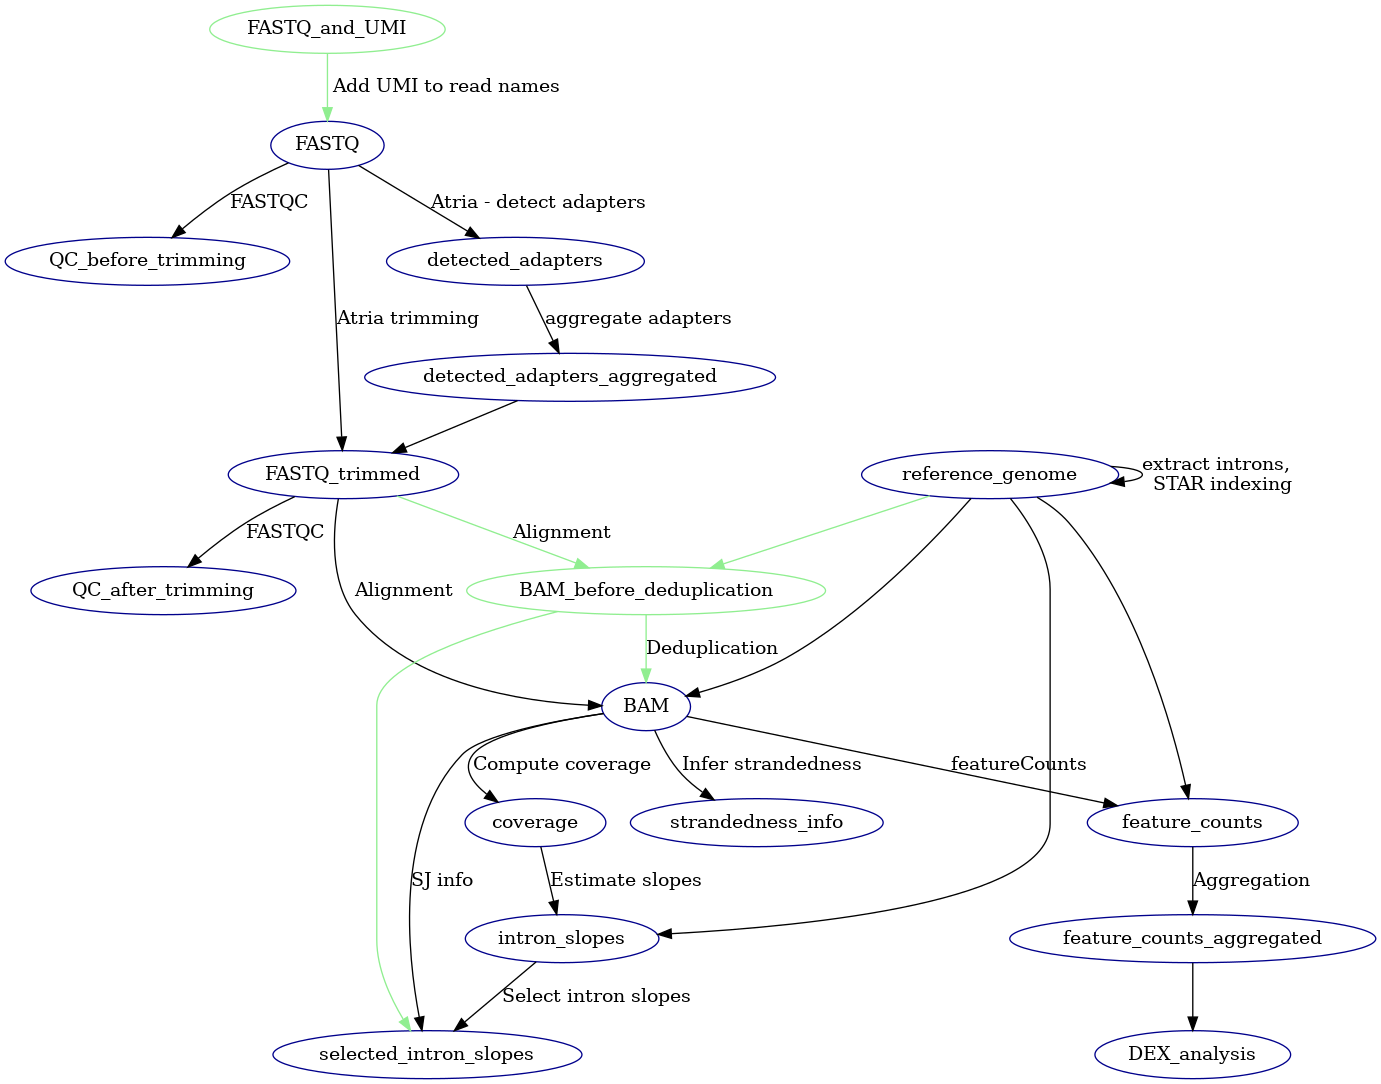
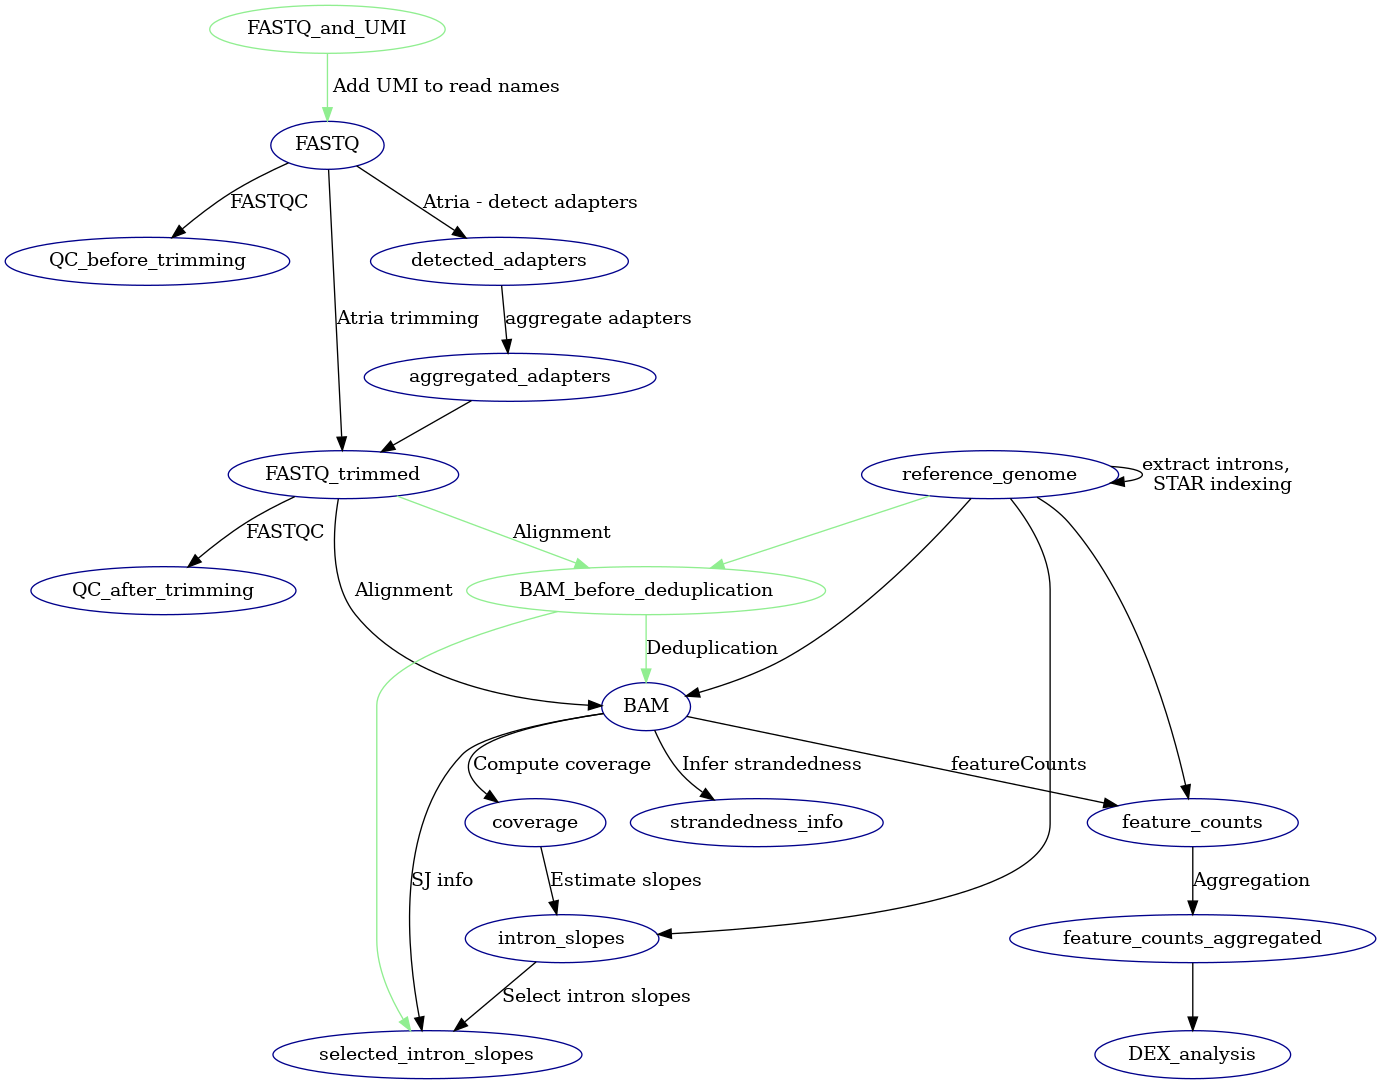
Update README.

Changed region(s): [[0.2491, 0.1827, 0.5605, 0.3958], [0.2802, 0.3958, 0.3114, 0.4262]]

diff --git a/misc/generate_dag.py b/misc/generate_dag.py
@@ -17,11 +17,11 @@ if __name__ == "__main__":
     graph.node('detected_adapters', color=default_color)
     graph.edge('FASTQ', 'detected_adapters', label='Atria - detect adapters')
 
-    graph.node('detected_adapters_aggregated', color=default_color)
-    graph.edge('detected_adapters', 'detected_adapters_aggregated', label='aggregate adapters')
+    graph.node('aggregated_adapters', color=default_color)
+    graph.edge('detected_adapters', 'aggregated_adapters', label='aggregate adapters')
 
     graph.node('FASTQ_trimmed', color=default_color)
-    graph.edge('detected_adapters_aggregated', 'FASTQ_trimmed')
+    graph.edge('aggregated_adapters', 'FASTQ_trimmed')
     graph.edge('FASTQ', 'FASTQ_trimmed', label='Atria trimming')
 
     graph.node('QC_after_trimming', color=default_color)

diff --git a/README.md b/README.md
@@ -30,16 +30,16 @@ an option to either run the computation locally, or submit it via
 The folder [misc](./misc) provide several utility scripts used for initial setup. 
 These steps are not specific for a given dataset.
 1. **Building the docker images**: As a first step, execute the script 
-[misc/build_images.sh](misc/build_images.sh), which will build docker images
+[build_images.sh](misc/build_images.sh), which will build docker images
 used in the pipeline. The images will be also saved as a ```.tar``` files to a disk.
 2. **Genome indexing**: We are using [STAR](https://github.com/alexdobin/STAR) 
 for read alignment in the pipeline. Before running the alignment step,
 it's necessary to prepare STAR index. 
-To do that, run the script [misc/prepare_star_index.sh](misc/prepare_star_index.sh). 
+To do that, run the script [prepare_star_index.sh](misc/prepare_star_index.sh). 
 The script require the annotation ```.gtf``` file and the genome sequence ```FASTA``` file to be placed
 in given folder, passed as an argument to the script. The script will generate a subfolder 
 named ```STAR_index``` in the genome folder.
-3. **Extracting introns from the .gtf file**: Run the script [misc/extract_genomic_features.sh](misc/extract_genomic_features.sh),
+3. **Extracting introns from the .gtf file**: Run the script [extract_genomic_features.sh](misc/extract_genomic_features.sh),
 which will extract the introns from the ```.gtf``` file and save them separately (as a ```.bed``` file)
 to the genome folder. As ```.gtf``` from different sources ([Ensembl](https://www.ensembl.org/index.html) 
 resp. [Gencode](https://www.gencodegenes.org/)) differ in their naming of UTR
@@ -50,7 +50,7 @@ This section provides information how to process a given dataset, after the step
 *Setup* sections have been completed.
 ### Data preparation
 We will start from a ```FASTQ``` folder, containing unprocessed paired reads.
-The name of the folder can be arbitrary (is not hardcoded in the pipeline), although we
+The name of the folder can be arbitrary (it is not hardcoded in the pipeline), although we
 recommend sticking to the names provided in the computational graph visualization above.
 
 The ```FASTQ``` folder is supposed to contain one subfolder for each sample. Names of
@@ -63,5 +63,33 @@ reads 1 and 2, respectively. The naming of these files **is** hardcoded in the p
 are expected to be compressed by gunzip (hence the ```.gz``` extension).
 If the sequencing was done with Unique Molecular Identifiers (UMIs), we expect that the
 UMIs are added to the read names (using e.g. the ```extract``` command of [UMI-tools](https://umi-tools.readthedocs.io/en/latest/)).
+
 ### Running the pipeline
-1. **Initial quality control**: 
+Every script in the pipeline folder has an argument ```-o``` which define path to the output folder, and
+also ```-i``` argument for the input folder (with an exception to the steps that require multiple input folders, in which
+cases the required input folders are passed by multiple arguments).
+We will assume that these folders have the same names as in the pipeline visualization above.
+1. **Initial quality control**: Running the script [batch_qc.sh](pipeline/batch_qc.sh) on the ```FASTQ```
+input folder will generate [FastQC](https://www.bioinformatics.babraham.ac.uk/projects/fastqc/) reports,
+which can be used e.g. to evaluate presence of adapters in the reads.
+2. **Detecting adapters**: Script [batch_detect_adapers.sh](pipeline/batch_detect_adapers.sh) will use [Atria](https://github.com/cihga39871/Atria)
+to detect the adapter sequence in reads in ```FASTQ``` folder and store the 
+detected adapters in the ```detected_adapters``` folder.
+3. **Aggregating adapters**: The adapters are expected to be the same in all samples. Script [run_aggregate_adapters.sh](pipeline/run_aggregate_adapters.sh)
+will aggregate the adapters from all samples and make sure that they are all the same. 
+The results will be stored in a JSON file ```aggregated_adapters.json``` in the ```aggregated_adapters```
+folder. If the adapters differ across samples, the flag ```adapters_successfully_detected``` in the JSON would be set to False.
+4. **Trimming**: Running [batch_trimming.sh](pipeline/batch_trimming.sh) will use the detected adapters to trimm the reads
+and store them in the folder ```FASTQ_trimmed```.
+5. **Quality control after the trimming**: After the trimming step, we will again use FastQC to generate reports and assess
+whether the trimming was successful. This is done by again running the script [batch_qc.s](pipeline/batch_qc.sh),
+this time with ```FASTQ_trimmed``` folder as an input.
+6. **Alignment**: We will use [STAR](https://github.com/alexdobin/STAR) for alignment. Besides producing
+the ```.bam``` files, it will also generate count matrices (which will be used to infer the strandedness of the data later on) and file
+with detected splice junctions. Running the start is done by the script [batch_align.sh](pipeline/batch_align.sh),
+creating the ```BAM``` folder.
+7. **Inferring strandedness**: Data can be stranded by either type 1 or 2, which determines which read (1 resp. 2)
+is on the same strand as the read pair as a whole (the reads 1 and 2 are always mapped to a different strand). We will use
+gene count matrices produces by STAR to determine strandedness type of our data, by comparing the amount
+of unmapped reads in both cases. This is achieved by running the script [run_infer_strandedness.sh](pipeline/run_infer_strandedness.sh),
+which will generate JSON file ```strandedness_info.json``` in the folder ```strandedness_info```.
